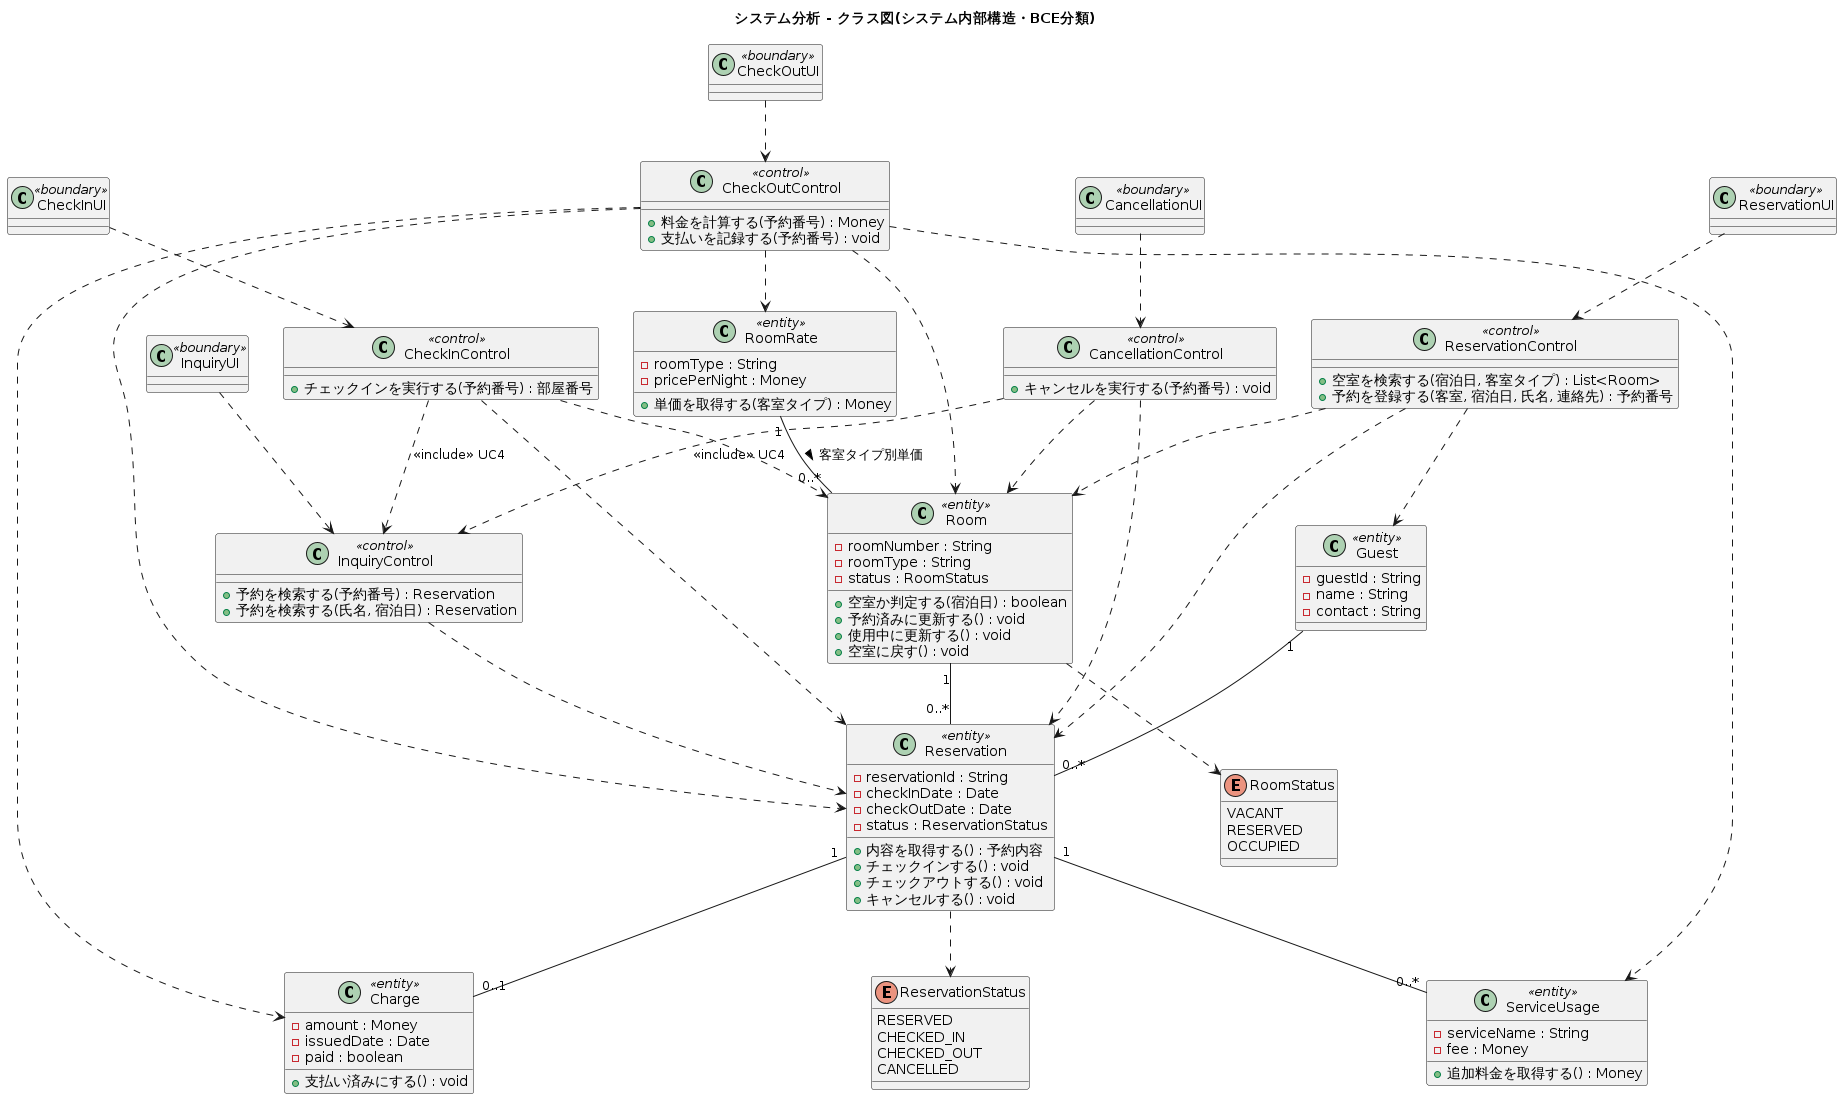
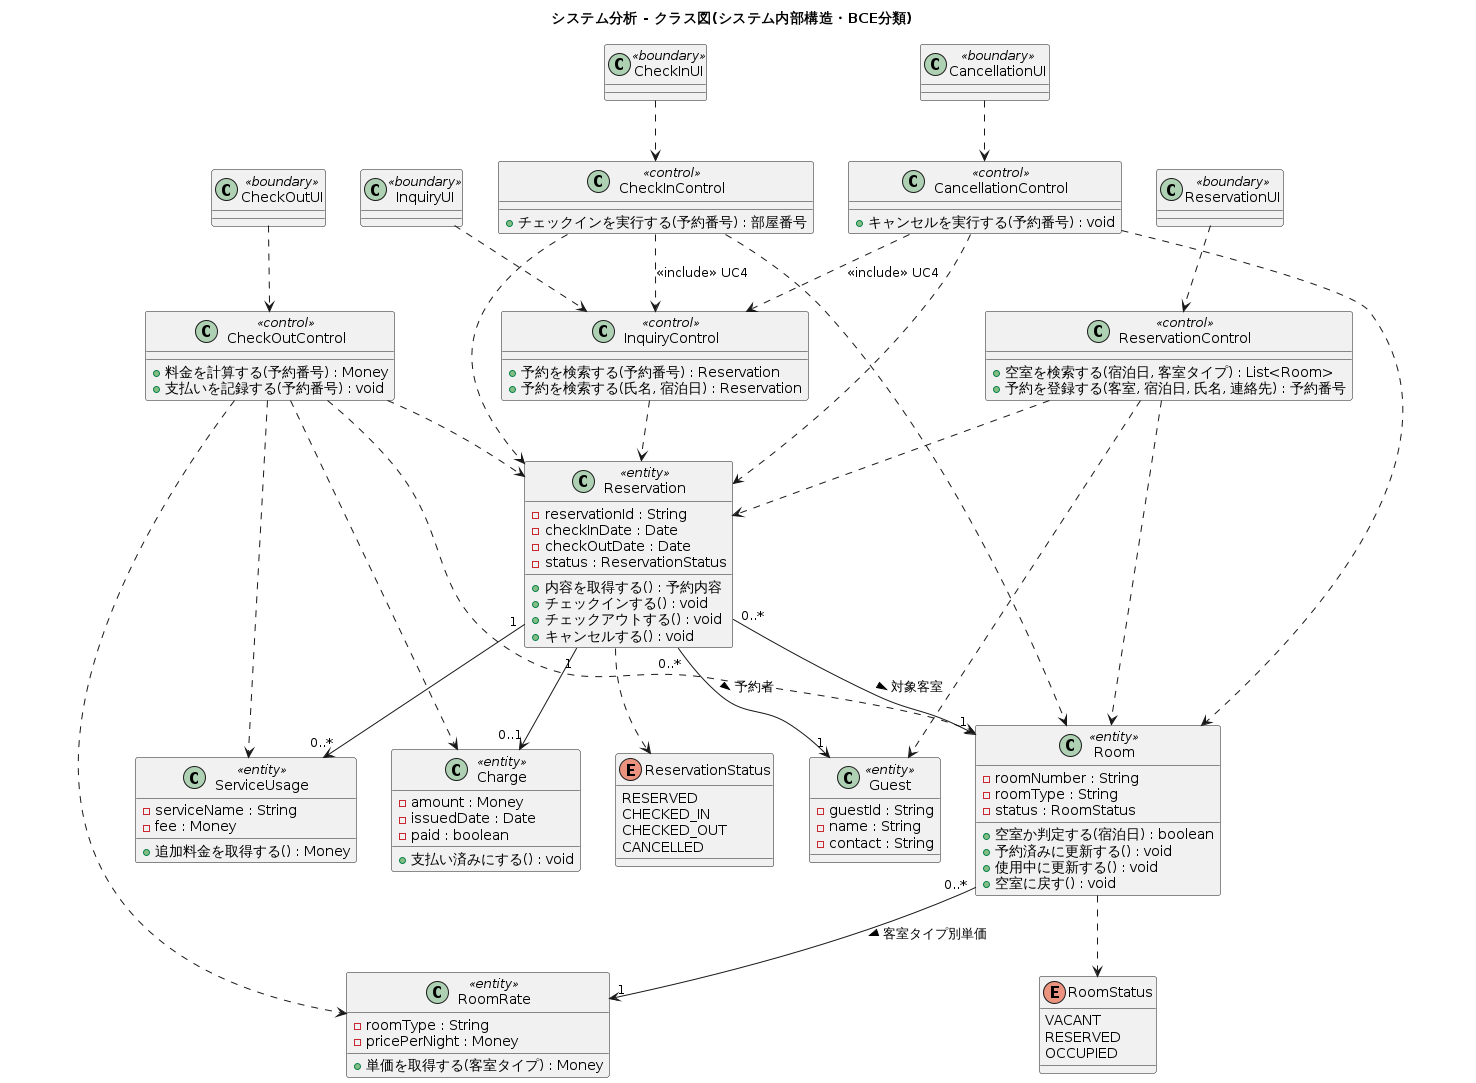
docs(uml): システムクラス図に誘導可能性の矢印を追加
## 背景
チェックリスト（`11_review_checklist.md` 課題5）で、アーキテクチャ設計のレビュー項目
「クラス間関係の全てについて方向（誘導可能性）が明示されている」が△だった。

## 問題点
09のエンティティ間の関連5本をすべて無方向の関連（`--`）で描いていたため、
どちらからどちらを辿れるのかが図から読み取れず、実装の参照方向
（Reservation が Guest・Room への参照を保持する等）と対応づけられなかった。

## 対応内容
- エンティティ間の全5関連に、実装の参照方向と一致する矢印を付けた
  - `Reservation` → `Guest` / `Room`: Reservation が予約者と対象客室の参照を保持する
    （`libs/domain/reservation.py` の `Reservation.guest` / `.room`）
  - `Reservation` → `Charge` / `ServiceUsage`: 予約IDを起点に請求・追加サービスを取得する
    （`BillingRepository.list_service_usages()` / `create_paid_charge()`）
  - `Room` → `RoomRate`: 客室タイプをキーに単価を引く（`BillingRepository.find_room_rate()`）
- Reservation—Guest / Room にロール名（予約者・対象客室）を併記した
- 判断根拠を .puml のコメントに残した
- `11_review_checklist.md` の該当項目を○に更新し、課題一覧 #5 を対応済みにした

diff --git a/docs/uml/11_review_checklist.md b/docs/uml/11_review_checklist.md
@@ -80,7 +80,7 @@
 | アーキテクチャ | 配置や色、フォントなどが読みやすい | ○ | 層ごとに背景色を分け、依存の矢印を層間に集約して交差を減らした。安定／不安定の勾配を注釈で示した |
 | クラス | 求められる全機能を満足するように操作および属性の割り当てが確定している | ○ | 09で全エンティティの属性と操作を確定。操作はコラボレーション図のメッセージと一対一 |
 | クラス | 実装可能な形で表現されている（型、名前など） | ○ | 属性・操作に型（String, Date, Money, boolean, ReservationStatus 等）を明記。実装のクラス名・メソッド名と一致している |
-| クラス間関係 | 全てについて方向（誘導可能性）が明示されている | △ | エンティティ間の関連は無方向の関連（`--`）で描いており、**誘導可能性の矢印を付けていない**。実装では Reservation から Guest・Room を辿る一方向であり、これを矢印で明示すべき |
+| クラス間関係 | 全てについて方向（誘導可能性）が明示されている | ○ | エンティティ間の全関連（5本）に実装の参照方向と一致する矢印を付けた。`Reservation`→`Guest`／`Room`（参照を保持）、`Reservation`→`Charge`／`ServiceUsage`（予約を起点に取得）、`Room`→`RoomRate`（客室タイプで単価を引く）。いずれも一方向で、逆向きに辿る操作は存在しない |
 | クラス間関係 | 全てについて多重度が明示されている | ○ | エンティティ間の全関連に多重度を明示（依存関係 `..>` は多重度の対象外） |
 | クラス間関係 | 必要な集約、合成集約（コンポジション）の関係が明示されている | △ | 09に集約・合成集約を用いていない。`Reservation`—`Charge`（0..1）と `Reservation`—`ServiceUsage`（0..*）は予約に従属し予約なしでは存在しないため、**合成集約で表すのが適切** |
 
@@ -121,7 +121,7 @@
 | 2 | ドメインオブジェクト図が具体値を持たず「具体的な状況」になっていない | インスタンス名と属性値を入れる | 小 |
 | 3 | ホテル—客室が単純関連（集約が自然） | 集約に変更する | 小 |
 | 4 | ユースケース図にフロント係→UC4の関連線がなく、UC4の記述と一致しない | 図に線を追加するか、記述側のアクタを利用者のみに絞る | 小 |
-| 5 | 09のエンティティ間関連に誘導可能性の矢印がない | 実装の参照方向に合わせて矢印を付ける | 小 |
+| 5 | ~~09のエンティティ間関連に誘導可能性の矢印がない~~ | 対応済み: 全5関連に実装の参照方向と一致する矢印を付与 | 小 |
 | 6 | 09に合成集約がない（Reservation—Charge / ServiceUsage） | 合成集約に変更する | 小 |
 | 7 | パッケージ設計原則 CRP・CCP・SAP が部分的 | Repository を `Protocol` で抽象化すればSAPと依存性逆転が明確になる。CCPは層分離とのトレードオフとして受容 | 中 |
 | 8 | 実装上の制約「提供される部分実装に従うこと」に従っていない | 「または他言語」の許容に基づく判断としてレポートに明記する | — |
